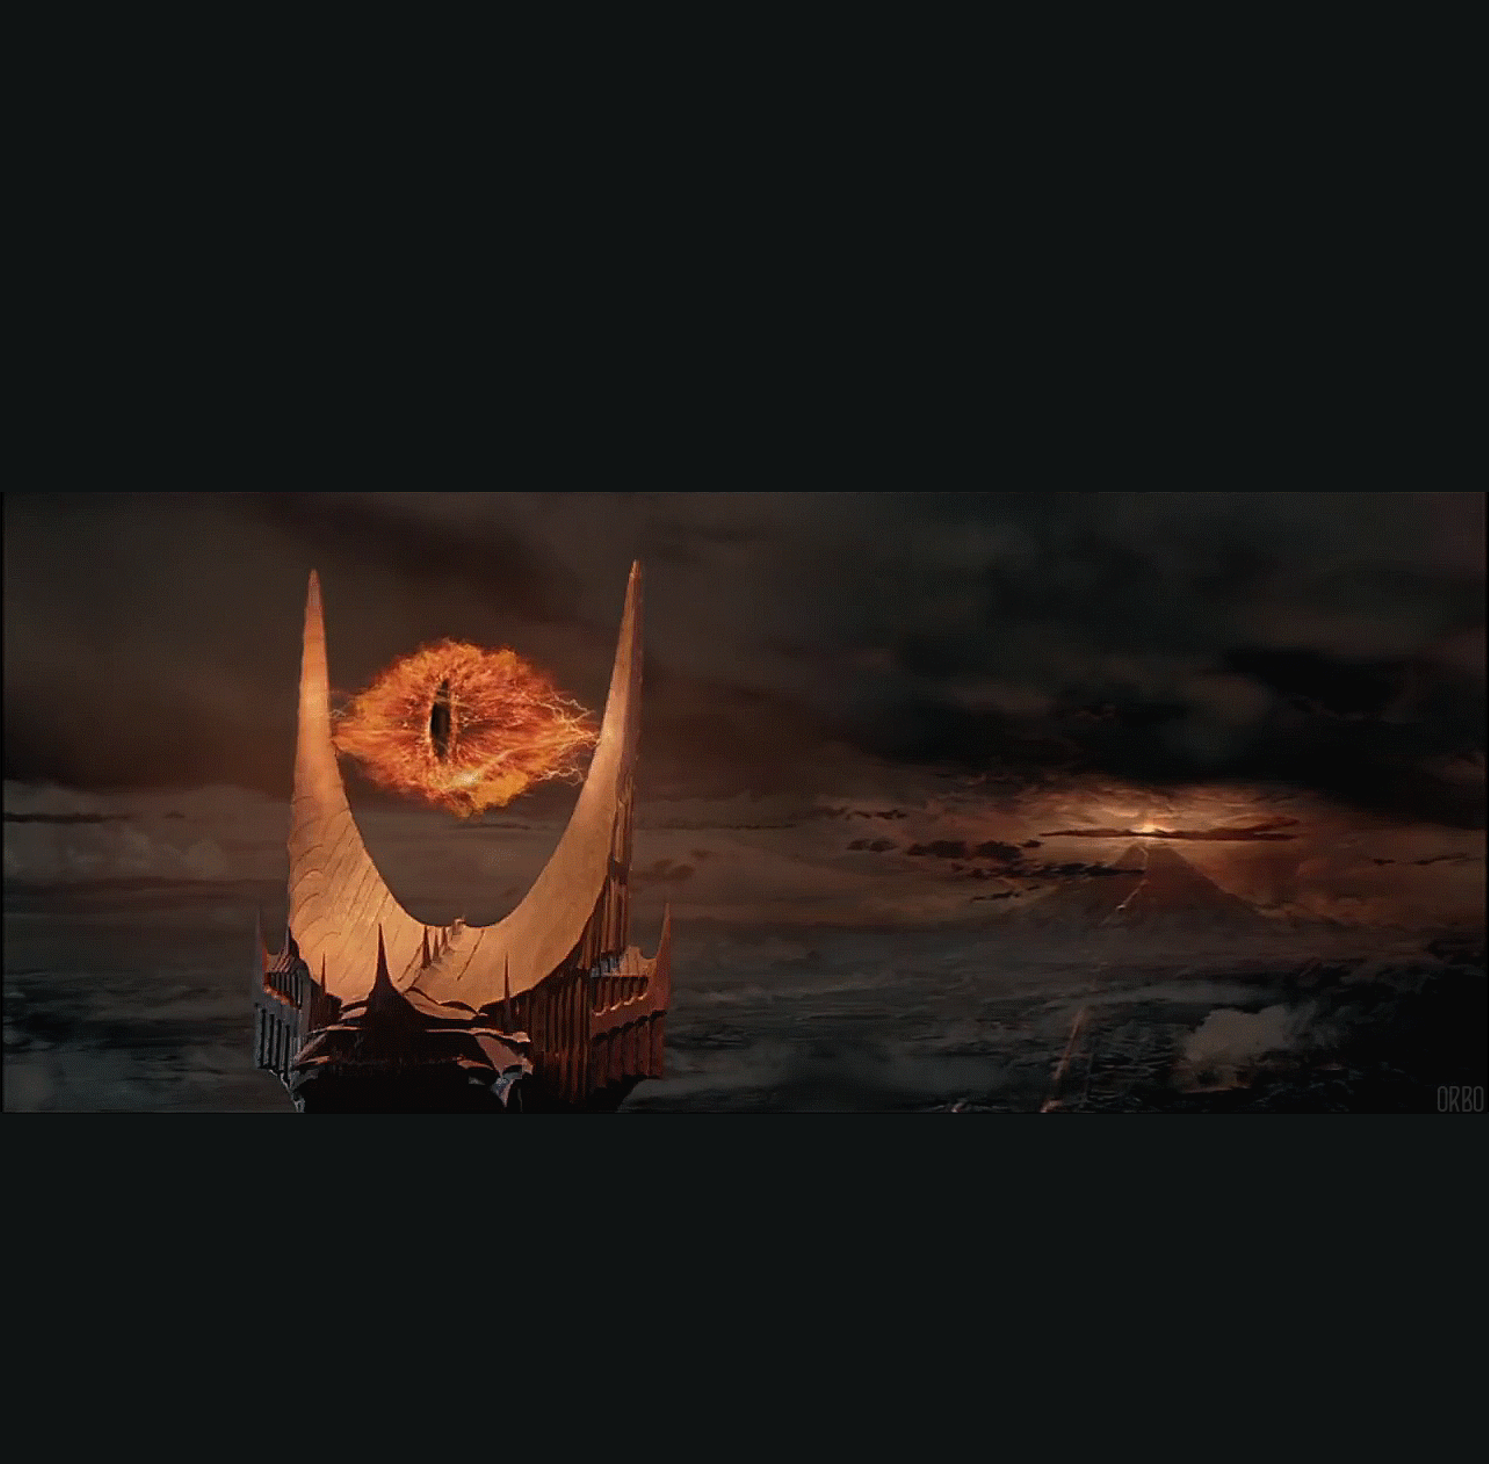
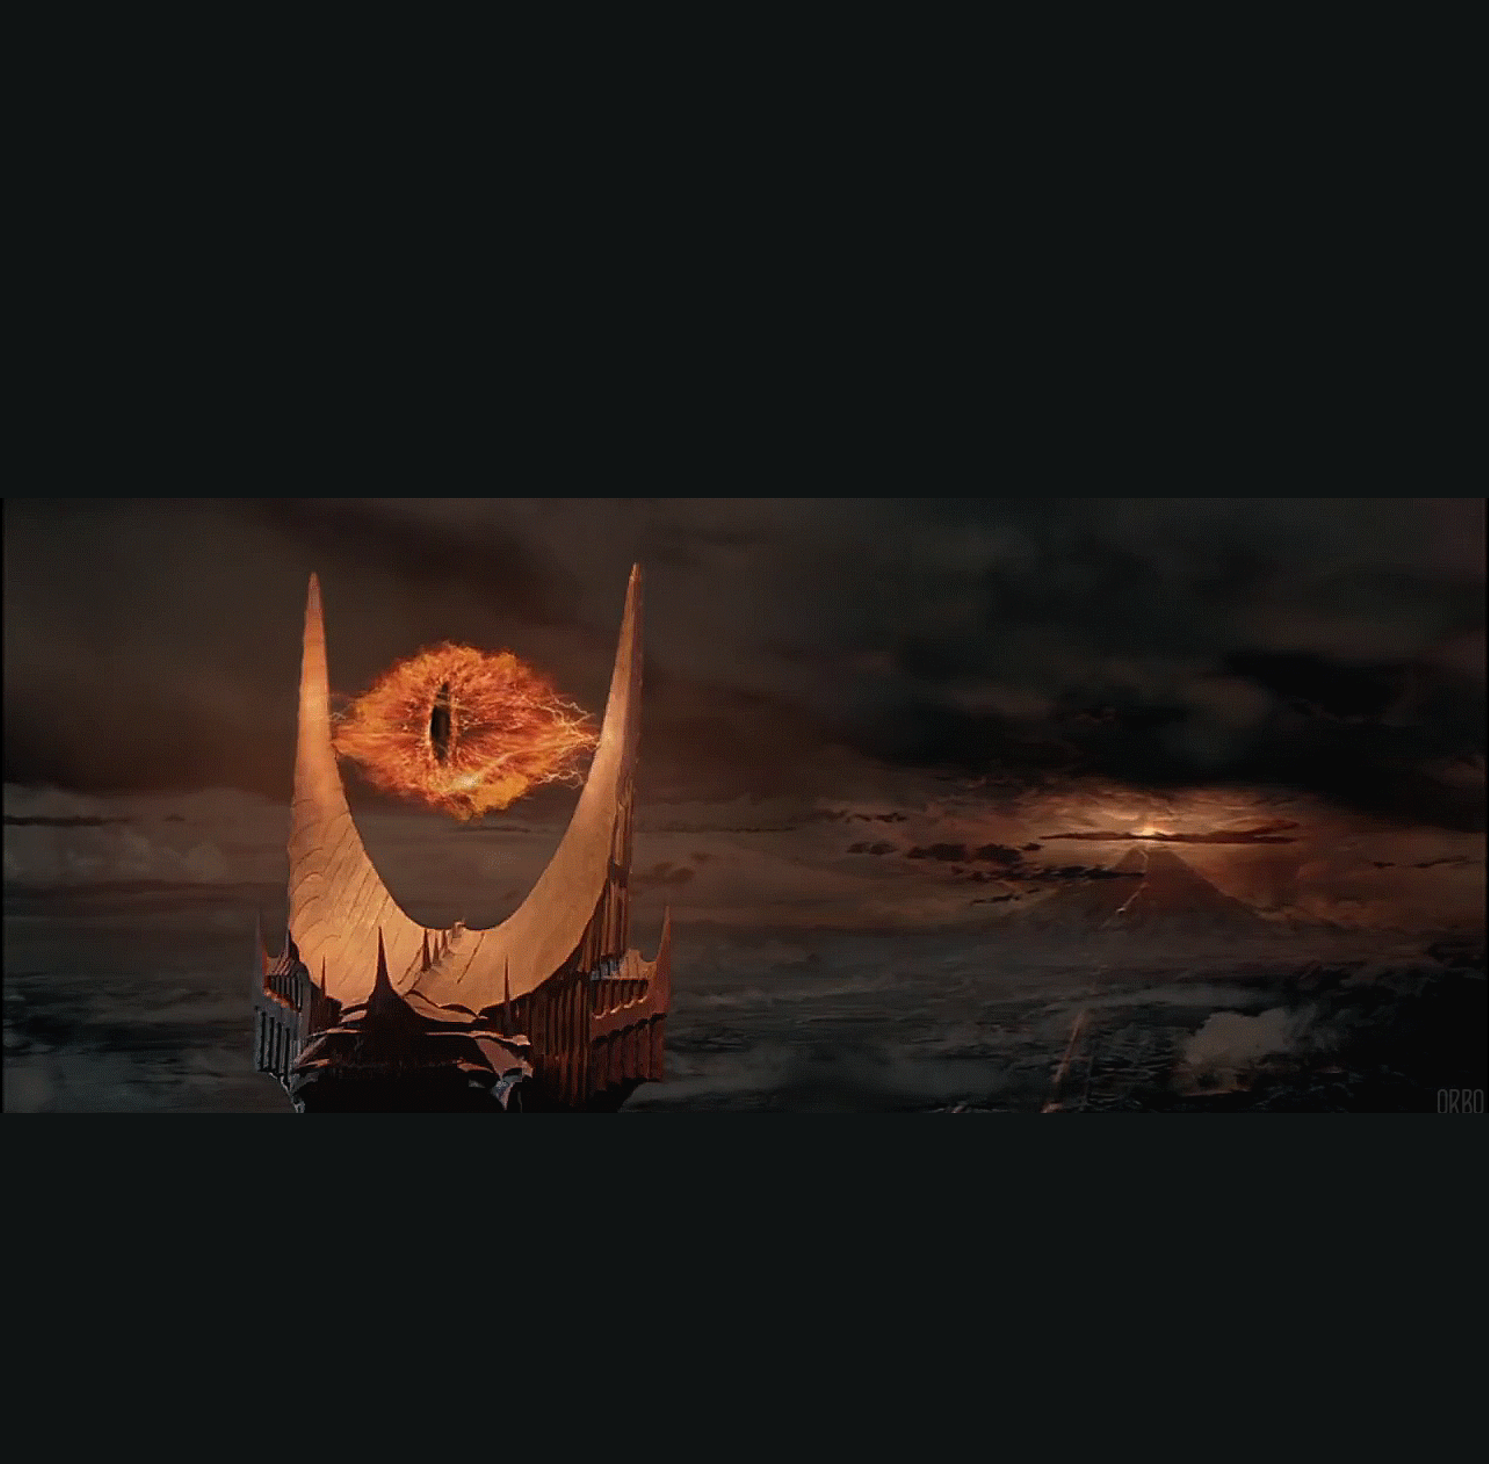
a

diff --git a/nerdme/lord-of-the-rings.html b/nerdme/lord-of-the-rings.html
@@ -20,7 +20,7 @@
 
 body {
   margin: auto;
-  background: url(sauronbg.png);
+  background: url(ssauron.png);
         background-repeat: no-repeat;
         background-position: center top;  
 font-family: 'elvish', normal;		
